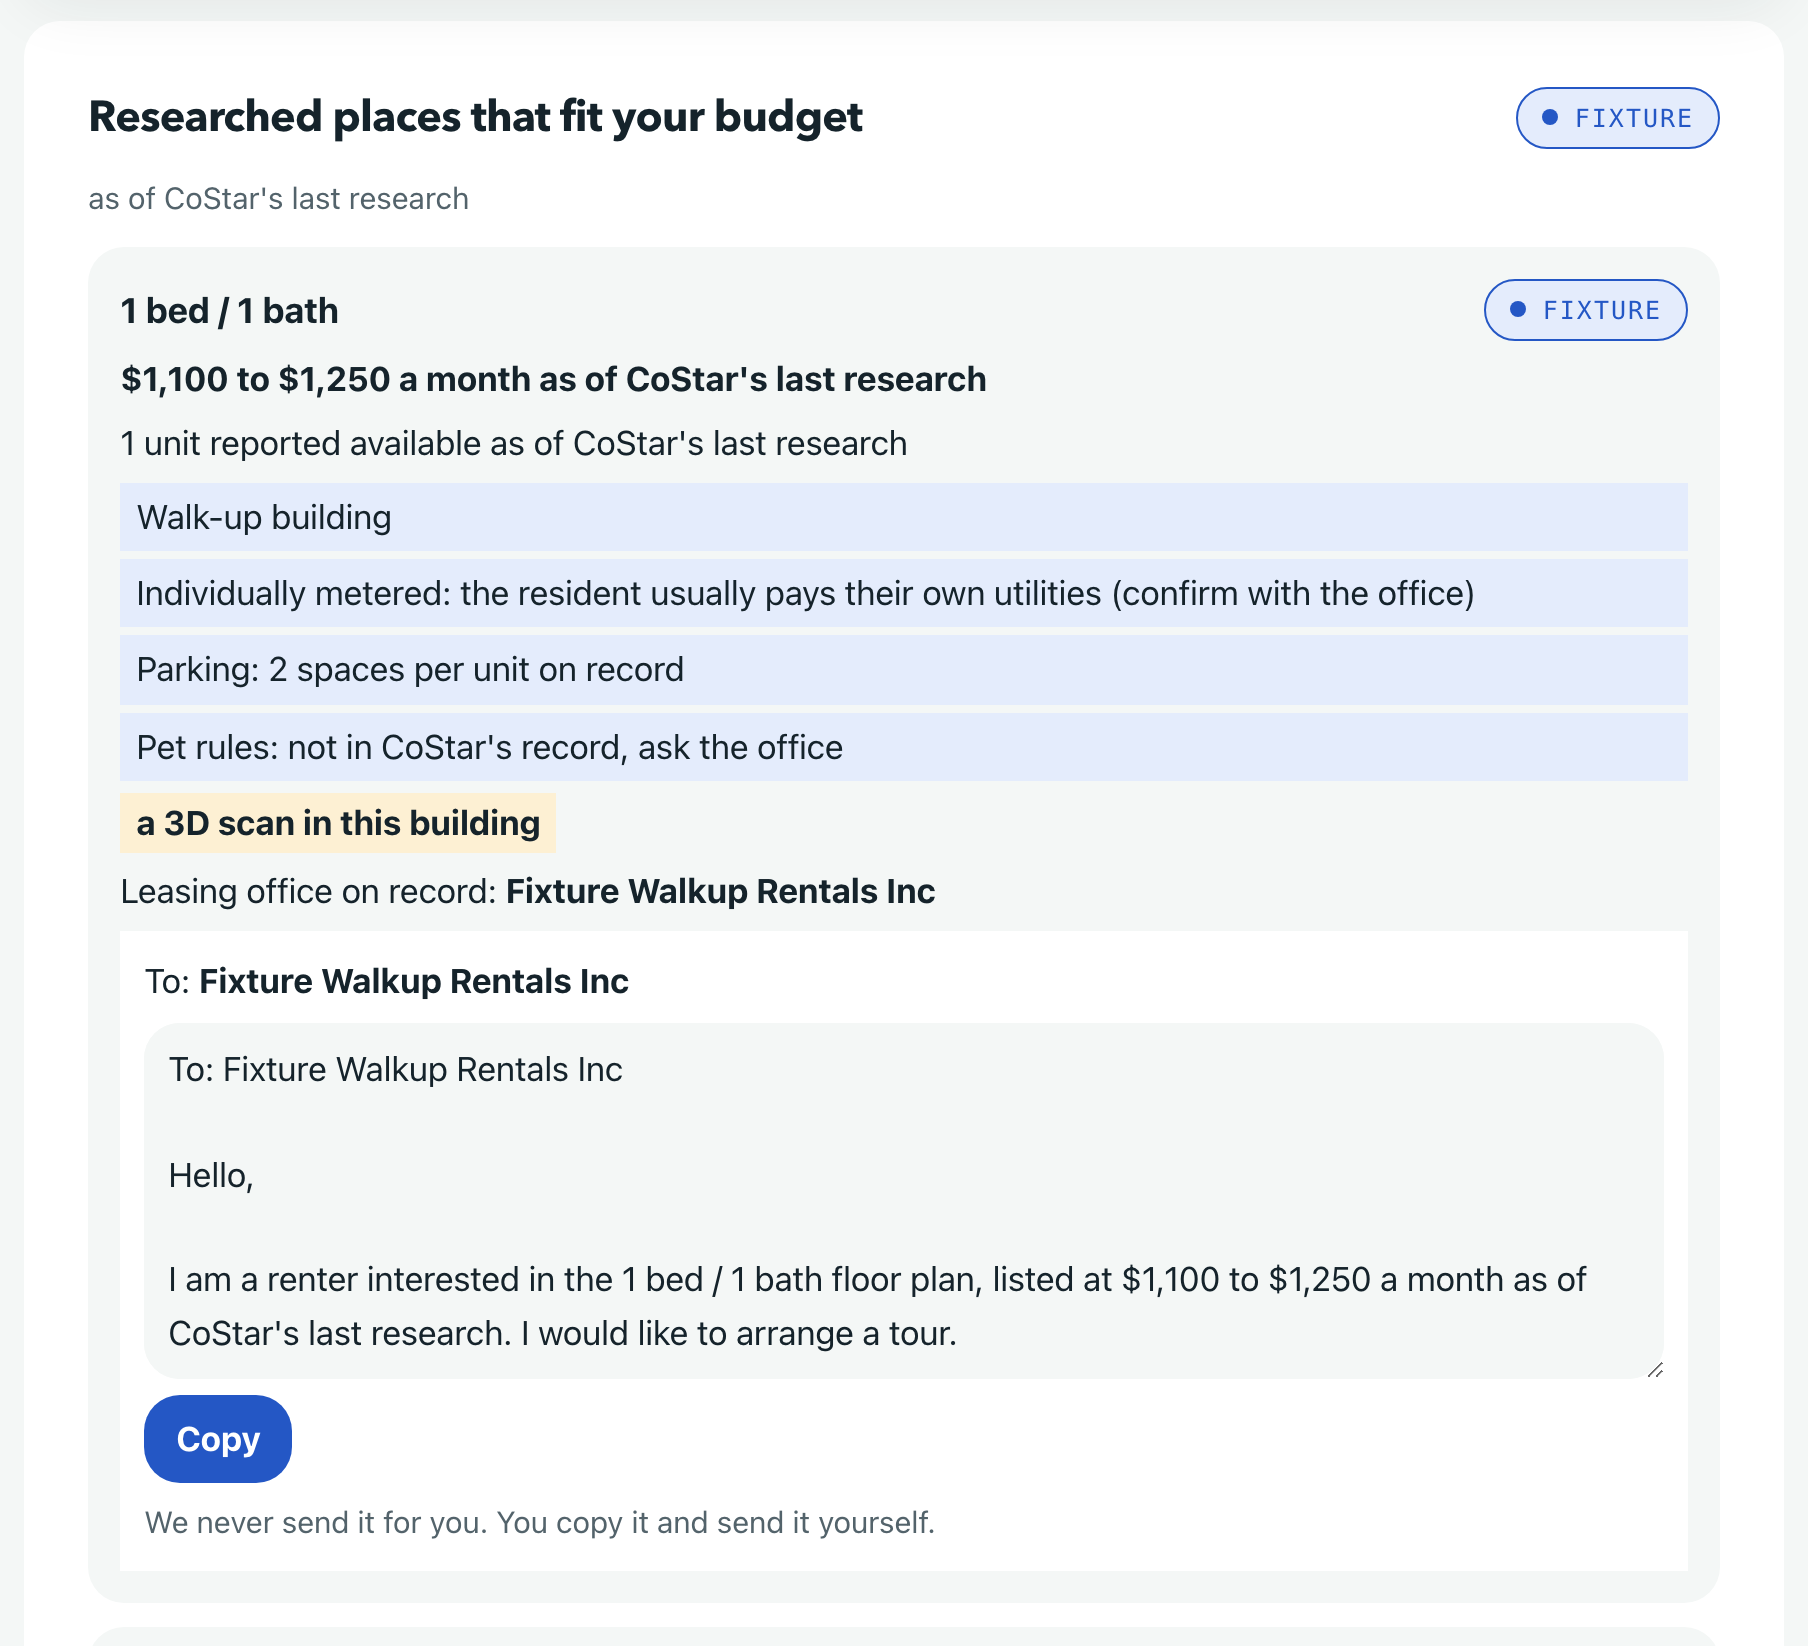
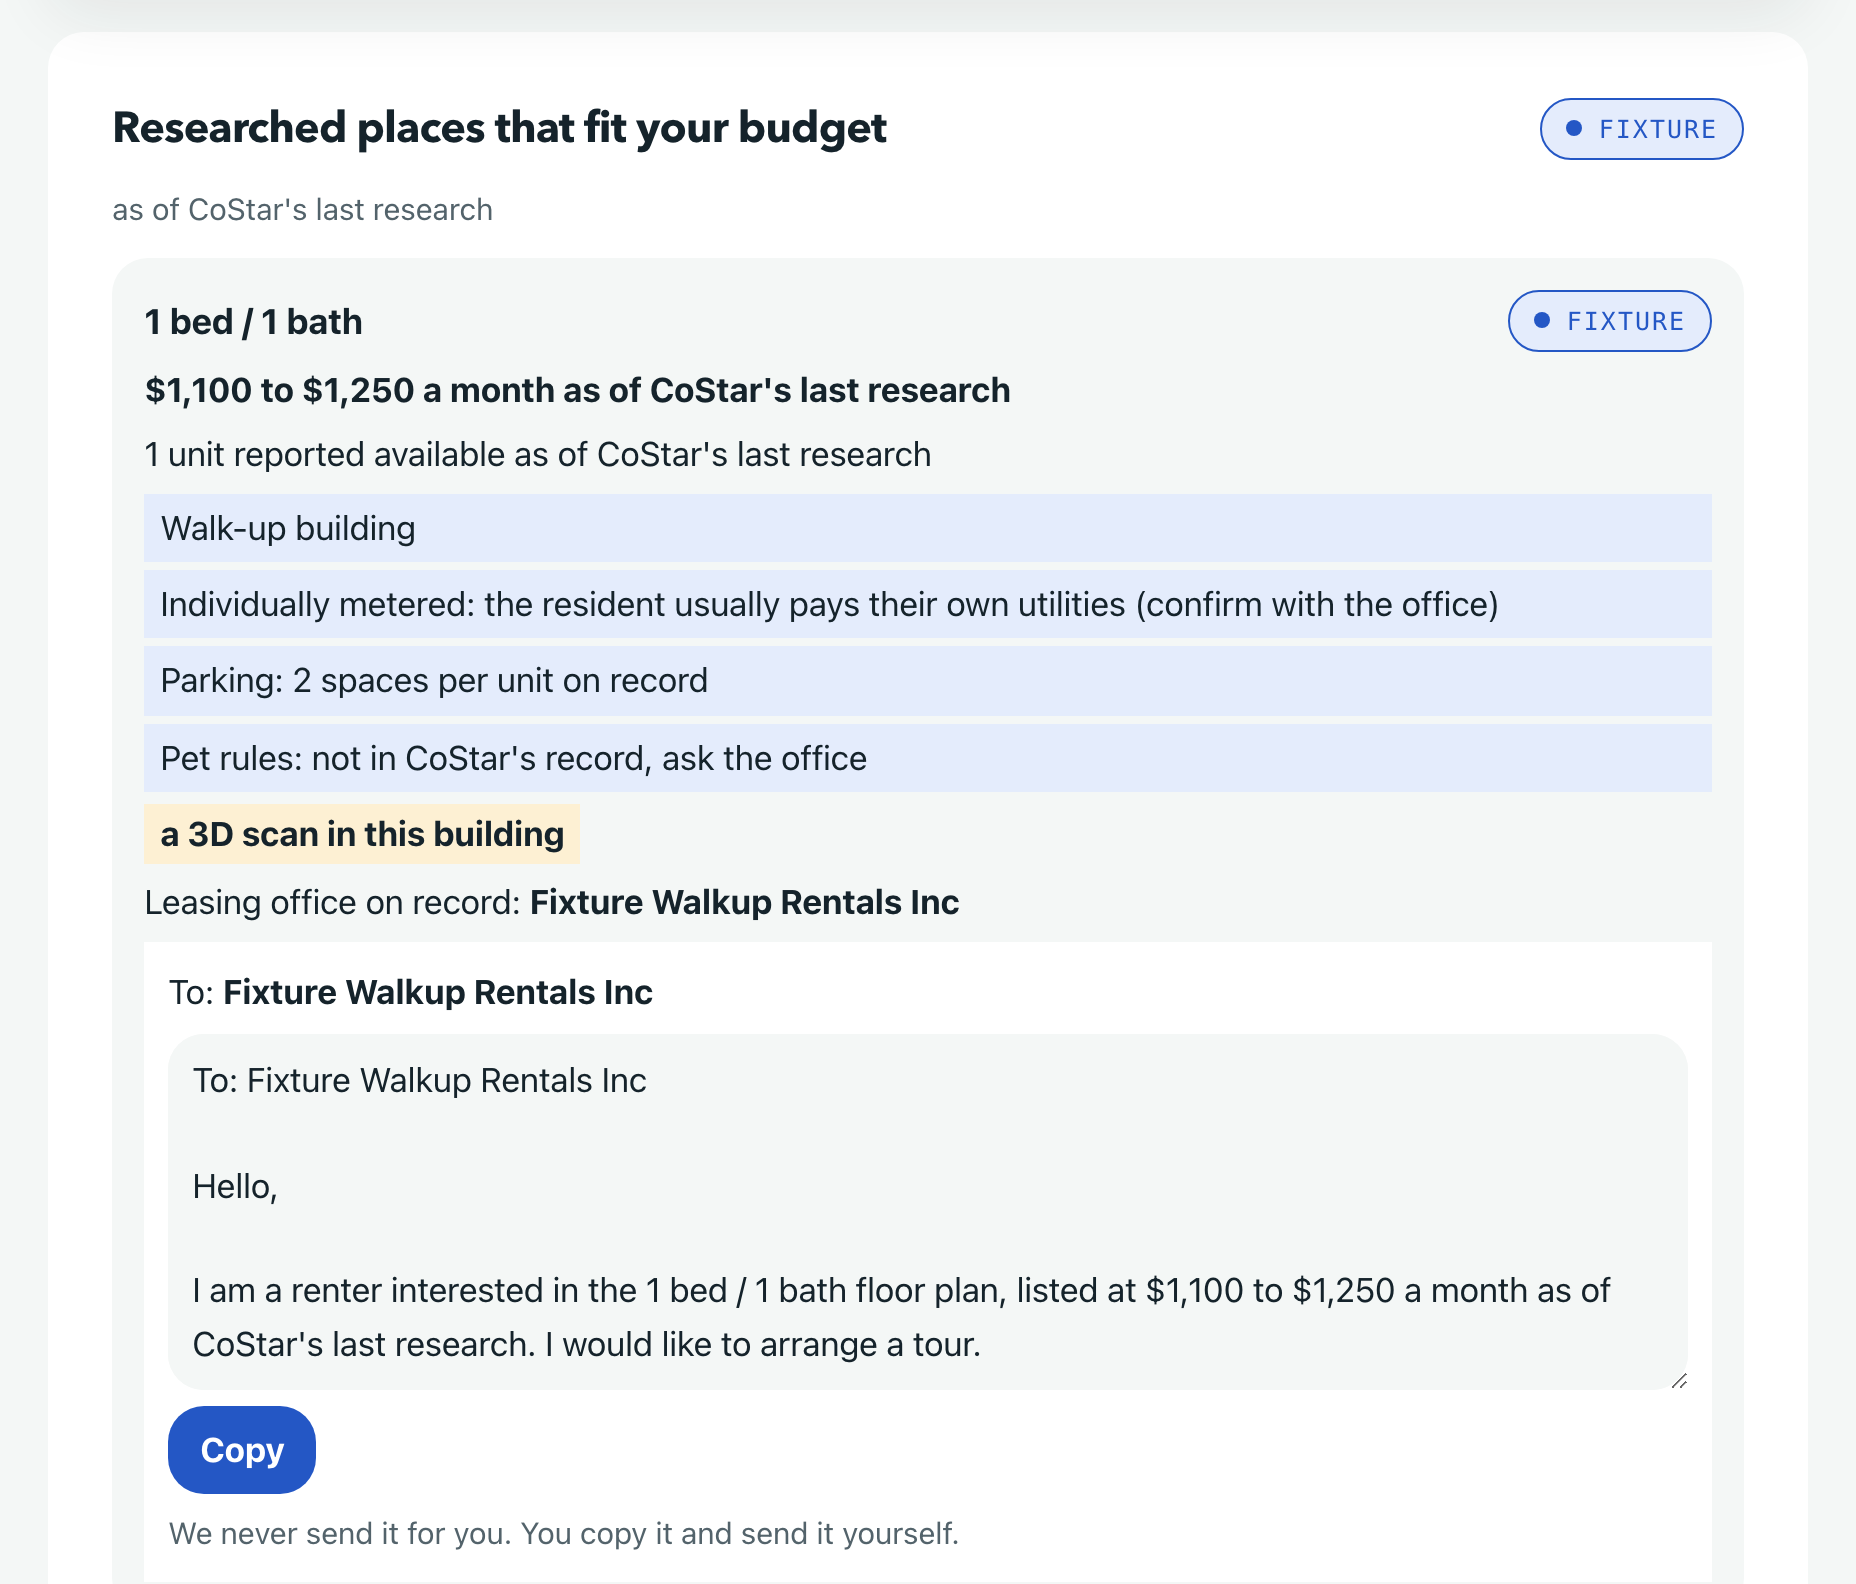
docs: even README gallery (two same-size desktop shots, phone on its own row)

diff --git a/README.md b/README.md
@@ -100,16 +100,20 @@ scammer. Cards come as a web page and as a PNG with a verify link.
 
 <table>
   <tr>
-    <td width="40%" valign="top"><img src="docs/images/verdict-dont-pay.png" alt="A result card that reads 'Don't pay. Something here doesn't match.' Each row names a check, what it found and a status chip: one listing photo was taken in a different building, the unit is not on the building's record, the link imitates the building's website, and the rent is 44% under the lowest 2 bed on record. A FIXTURE badge sits in the corner." /></td>
-    <td width="38%" valign="top"><img src="docs/images/places-tour-draft.png" alt="The 'Researched places that fit your budget' strip. A 1 bed, 1 bath floor plan at $1,100 to $1,250 a month as of CoStar's last research, with walk-up, utilities, parking and pet lines, a '3D scan in this building' tag, the leasing office on record, and an open tour-request draft addressed to that office with a Copy button." /></td>
-    <td width="22%" valign="top"><img src="docs/images/phone-verdict.png" alt="The Don't pay card for the same staged ad, on a phone, 390 pixels wide, with each check stacked above its status chip." /></td>
+    <td width="50%" valign="top"><img src="docs/images/verdict-dont-pay.png" width="400" alt="A result card that reads 'Don't pay. Something here doesn't match.' Each row names a check, what it found and a status chip: one listing photo was taken in a different building, the unit is not on the building's record, and the poster's right to rent and phone number are not confirmed. A FIXTURE badge sits in the corner." /></td>
+    <td width="50%" valign="top"><img src="docs/images/places-tour-draft.png" width="400" alt="The 'Researched places that fit your budget' strip. A 1 bed, 1 bath floor plan at $1,100 to $1,250 a month as of CoStar's last research, with walk-up, utilities, parking and pet lines, a '3D scan in this building' tag, the leasing office on record, and an open tour-request draft addressed to that office with a Copy button." /></td>
   </tr>
   <tr>
-    <td valign="top"><sub>A finished card for a staged ad: one photo was taken in a different building, so the verdict is Don't pay.</sub></td>
-    <td valign="top"><sub>Researched places that fit the budget (a separate search), and a tour request drafted to the office on record. You copy it and send it yourself.</sub></td>
-    <td valign="top"><sub>The card on a phone.</sub></td>
+    <td valign="top"><sub>The card. One photo was taken in a different building, so it says Don't pay.</sub></td>
+    <td valign="top"><sub>Researched places in budget (a separate search), with a tour request you send yourself.</sub></td>
   </tr>
 </table>
+
+<p align="center">
+  <img src="docs/images/phone-verdict.png" width="220" alt="The Don't pay card for the same staged ad, on a phone, 390 pixels wide, with each check stacked above its status chip." />
+  <br />
+  <sub>The card for the same staged ad, on a phone.</sub>
+</p>
 
 <sub>Every screenshot is the web app running locally on synthetic fixture data made by the team,
 and each screen says FIXTURE. Office names such as "Fixture Living LLC" are made up.</sub>
